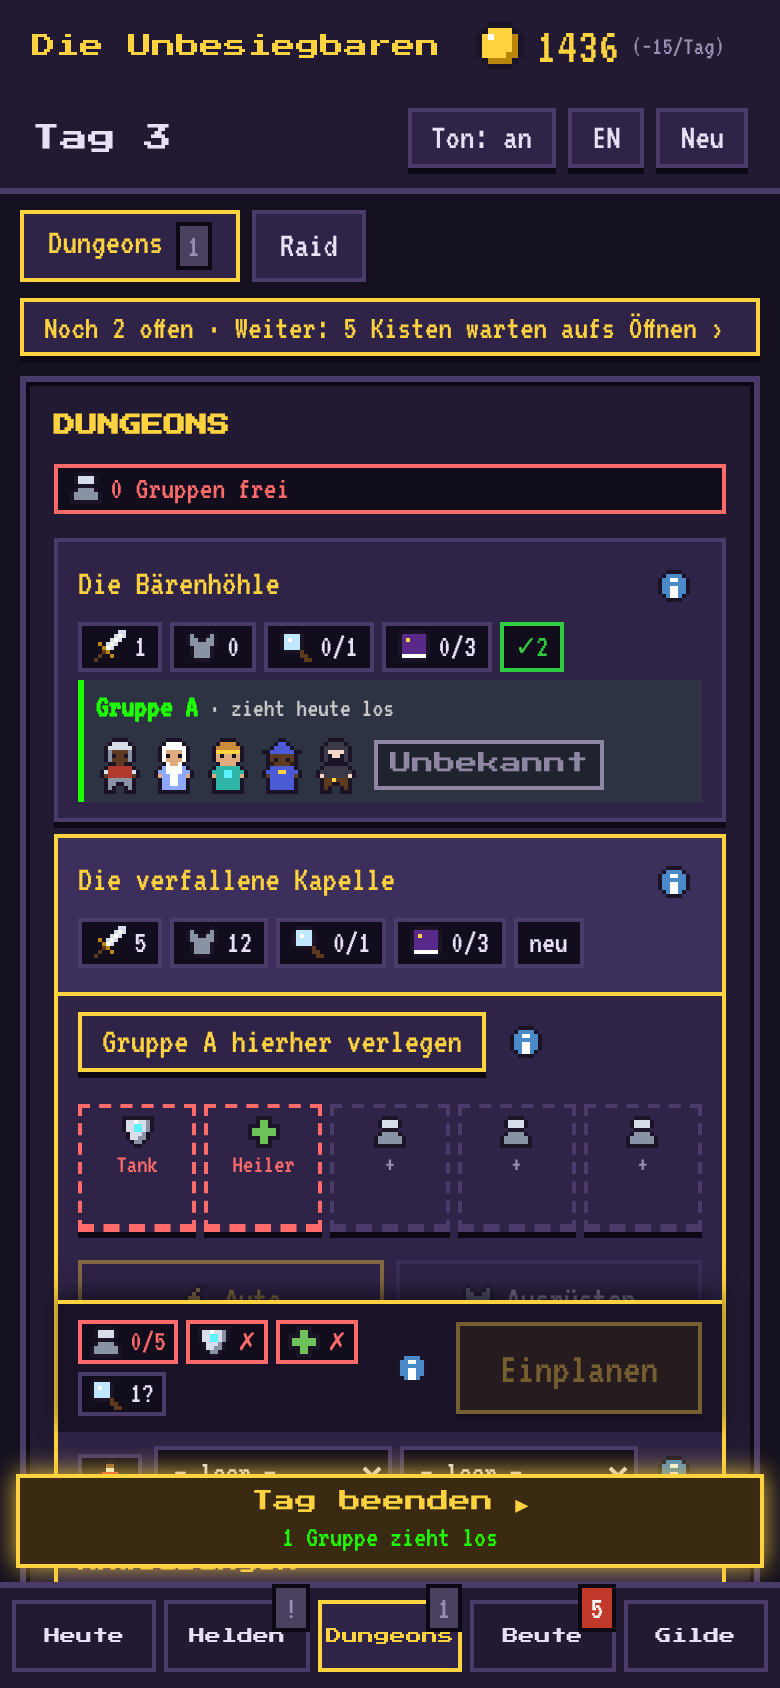
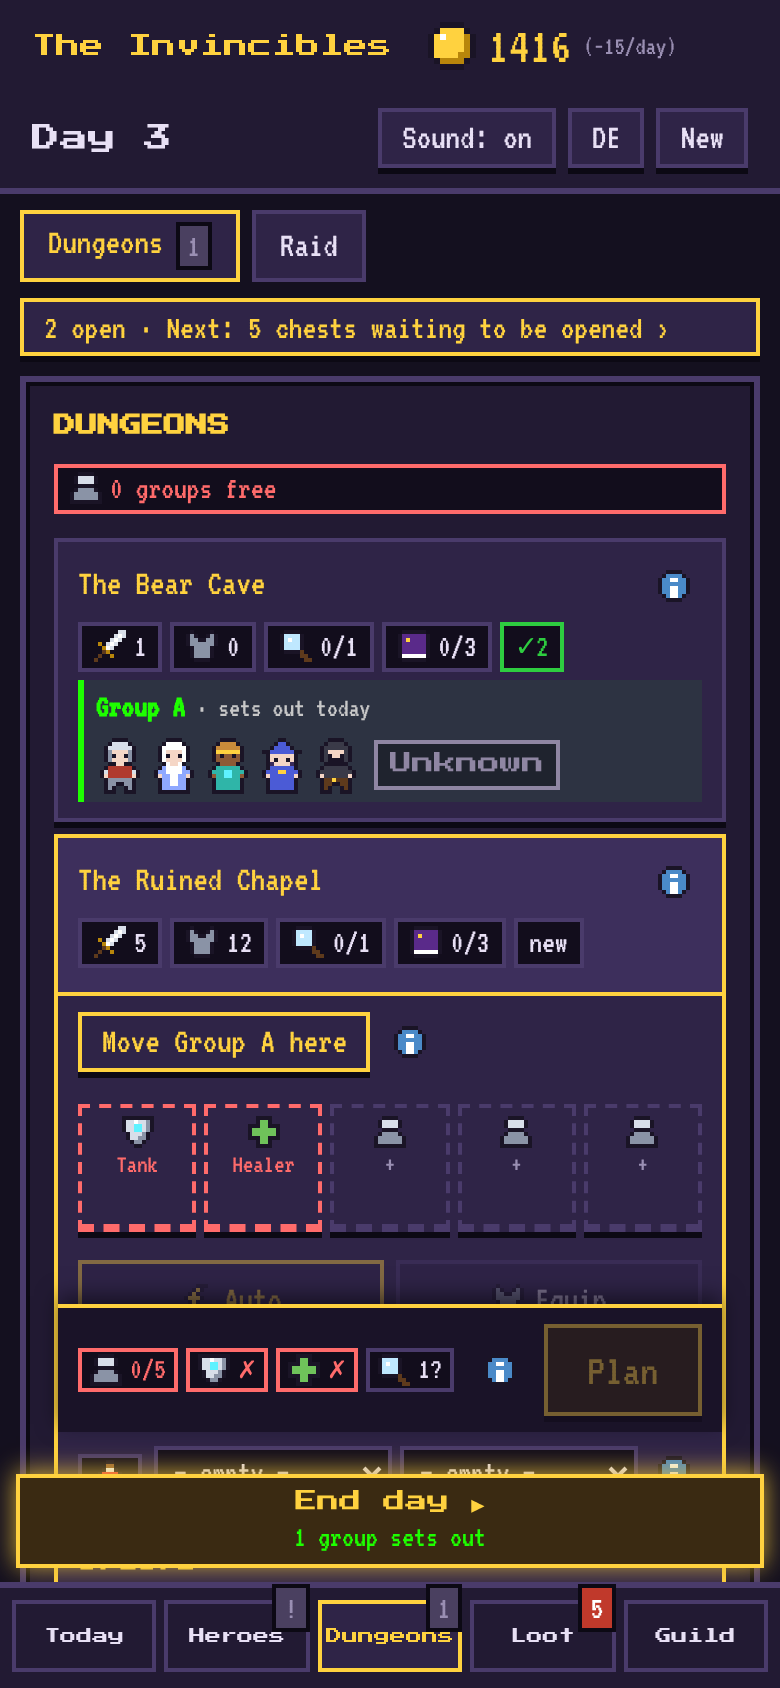
GitHub page fully in English: README, screenshots, link preview
- README rewritten in English
- screenshots retaken in English with English file names (tools/screenshots.cjs: English by default, 'de' for German)
- index.html: English description and link preview, new preview image

Claude-Session: https://claude.ai/code/session_01NVZnQ5TLVMAPfjkcucPMnS

diff --git a/index.html b/index.html
@@ -3,15 +3,15 @@
   <head>
     <meta charset="UTF-8" />
     <meta name="viewport" content="width=device-width, initial-scale=1.0" />
-    <title>Gildenmanager – Führe deine MMORPG-Gilde</title>
-    <meta name="description" content="Pixel-Art-Managementspiel: Führe eine MMORPG-Gilde, heuere Helden an, plane Gruppen und Raids und sammle legendäre Beute. Im Browser, auch auf dem Handy." />
+    <title>Guild Manager – Run your MMORPG guild</title>
+    <meta name="description" content="Pixel-art management game: run an MMORPG guild, hire heroes, plan groups and raids and collect legendary loot. In your browser, on desktop and mobile. English and German." />
     <meta name="theme-color" content="#1a1228" />
     <link rel="icon" type="image/png" href="./favicon.png" />
     <link rel="apple-touch-icon" href="./apple-touch-icon.png" />
-    <!-- Vorschau, wenn der Link geteilt wird (Messenger, soziale Netzwerke) -->
+    <!-- Vorschau, wenn der Link geteilt wird (Messenger, soziale Netzwerke); auf Englisch, weil die Seite international geteilt wird -->
     <meta property="og:type" content="website" />
-    <meta property="og:title" content="Gildenmanager" />
-    <meta property="og:description" content="Führe deine MMORPG-Gilde: Helden, Dungeons, Raids und Beute – in Pixel-Art, im Browser." />
+    <meta property="og:title" content="Guild Manager" />
+    <meta property="og:description" content="Run your MMORPG guild: heroes, dungeons, raids and loot – in pixel art, in your browser." />
     <meta property="og:url" content="https://salsaheaven.github.io/gildenmanager/" />
     <meta property="og:image" content="https://salsaheaven.github.io/gildenmanager/og-image.png" />
     <meta name="twitter:card" content="summary_large_image" />

diff --git a/README.md b/README.md
@@ -1,98 +1,78 @@
 <div align="center">
 
-<img src="public/apple-touch-icon.png" width="96" alt="Pixel-Schatzkiste" />
+<img src="public/apple-touch-icon.png" width="96" alt="Pixel treasure chest" />
 
-# Gildenmanager
+# Guild Manager
 
-**Führe deine MMORPG-Gilde – ohne selbst zu kämpfen.**<br>
-Ein Pixel-Art-Managementspiel für Browser und Handy.
+**Run your MMORPG guild – without fighting yourself.**<br>
+A pixel-art management game for browser and phone.
 
-[![Jetzt spielen](https://img.shields.io/badge/▶_Jetzt_spielen-im_Browser-ffd23f?style=for-the-badge&labelColor=1a1228)](https://salsaheaven.github.io/gildenmanager/)
+[![Play now](https://img.shields.io/badge/▶_Play_now-in_your_browser-ffd23f?style=for-the-badge&labelColor=1a1228)](https://salsaheaven.github.io/gildenmanager/)
 
-![Sprachen](https://img.shields.io/badge/Sprachen-Deutsch_·_English-a335ee?style=flat-square&labelColor=1a1228)
-![Plattform](https://img.shields.io/badge/läuft_auf-PC_·_Handy-1eff00?style=flat-square&labelColor=1a1228)
-![Status](https://img.shields.io/badge/Status-in_Entwicklung-0070dd?style=flat-square&labelColor=1a1228)
+![Languages](https://img.shields.io/badge/languages-English_·_German-a335ee?style=flat-square&labelColor=1a1228)
+![Platform](https://img.shields.io/badge/runs_on-desktop_·_mobile-1eff00?style=flat-square&labelColor=1a1228)
+![Status](https://img.shields.io/badge/status-in_development-0070dd?style=flat-square&labelColor=1a1228)
 
-[Deutsch](#worum-gehts) · [English](#english)
-
-<img src="docs/screenshots/kampf.png" width="860" alt="Kampfszene gegen Grimmzahn in der Bärenhöhle" />
+<img src="docs/screenshots/battle.png" width="860" alt="Battle scene against Grimfang in the Bear Cave" />
 
 </div>
 
-## Worum geht's?
+## What is it about?
 
-Du bist Gildenmeister. Du heuerst Helden an, stellst Gruppen aus Tank, Heiler und Schadensausteilern zusammen,
-gibst ihnen Anweisungen und schickst sie in Dungeons. Gekämpft wird automatisch: Am Ende jedes Tages siehst du zu,
-wie sich deine Gruppen schlagen – und öffnest danach die Beute.
+You are the guild master. You hire heroes, build groups of tanks, healers and damage dealers,
+give them orders and send them into dungeons. The fighting happens on its own: at the end of each day you watch
+how your groups do – and then you open the loot.
 
-Mit jeder Kiste wirst du stärker, jeder Boss hat seine Tricks, und vier andere Gilden kämpfen um dieselben Server-Firsts.
-Am Ende wartet ein 20-Mann-Raid mit dem Endboss. Gewertet wird, nach wie vielen Tagen deine Gilde die Welt gerettet hat.
+Every chest makes you stronger, every boss has its tricks, and four rival guilds race you for the server firsts.
+At the end awaits a 20-player raid against the final boss. Your score: how many days your guild needed to save the world.
 
-## So spielt es sich
+## How it plays
 
 | | | | |
 |:-:|:-:|:-:|:-:|
-| <img src="docs/screenshots/tagesplan.png" width="190" alt="Tagesplan" /> | <img src="docs/screenshots/dungeon.png" width="190" alt="Dungeon planen" /> | <img src="docs/screenshots/held.png" width="190" alt="Held mit Ausrüstung" /> | <img src="docs/screenshots/kampf-handy.png" width="190" alt="Kampf auf dem Handy" /> |
-| **Planen**<br>Was gibt es heute zu tun? | **Gruppe bilden**<br>Tank, Heiler, Konter | **Ausrüsten**<br>Items, Talente, Sets | **Zuschauen**<br>Kämpfe als Szene |
+| <img src="docs/screenshots/day-plan.png" width="190" alt="Day plan" /> | <img src="docs/screenshots/dungeon.png" width="190" alt="Planning a dungeon" /> | <img src="docs/screenshots/hero.png" width="190" alt="Hero with gear" /> | <img src="docs/screenshots/battle-mobile.png" width="190" alt="Battle on a phone" /> |
+| **Plan**<br>What needs doing today? | **Build a group**<br>Tank, healer, counters | **Gear up**<br>Items, talents, sets | **Watch**<br>Fights as a scene |
 
 <p align="center">
-  <img src="docs/screenshots/beute.png" width="420" alt="Schatzkiste öffnen" />
-  <img src="docs/screenshots/raid-kampf.png" width="420" alt="Raid mit 20 Helden" />
+  <img src="docs/screenshots/loot.png" width="420" alt="Opening a treasure chest" />
+  <img src="docs/screenshots/raid.png" width="420" alt="Raid with 20 heroes" />
 </p>
 
-1. **Morgens planen:** Wer zieht in welchen Dungeon, wer trainiert, sammelt Kräuter oder erkundet den nächsten Boss?
-2. **„Tag beenden“:** Alle Kämpfe laufen als Pixel-Szene ab – oder du überspringst sie.
-3. **Abends ernten:** Gold, Erfahrung, Level-Ups und Boss-Kisten. „Woran es lag“ erklärt jede Niederlage.
-4. **Stärker werden:** Ausrüstung anlegen und verbessern, Talente wählen, die Gildenhalle ausbauen.
-5. **Weiter nach oben:** neue Dungeons, Raid-Tage am Wochenende, das Rennen gegen die anderen Gilden.
+1. **Plan in the morning:** who goes into which dungeon, who trains, gathers herbs or scouts the next boss?
+2. **"End day":** all fights play out as a pixel scene – or you skip them.
+3. **Reap in the evening:** gold, experience, level-ups and boss chests. "What went wrong" explains every defeat.
+4. **Get stronger:** equip and upgrade gear, pick talents, expand the guild hall.
+5. **Climb higher:** new dungeons, raid days on the weekend, the race against the other guilds.
 
-## Was drin ist
+## What's inside
 
-- 🛡 **15 Klassen** mit eigenen Skills, Talenten und Kampf-Anweisungen – jede Wahl hat Vor- und Nachteile
-- 🗺 **10 Dungeons** mit Trash-Gruppen und Bossen, deren Mechaniken man kontern muss (unterbrechen, Flüche lösen, abfangen, Panzer brechen, Wutanfall dämpfen)
-- 🐉 **2 Raids mit 20 Helden** in vier Gruppen: Phasen, Tankwechsel, Gruppenschläge – und Vaelor, der Weltenverschlinger
-- 🎁 **Lootboxen** mit Seltenheiten von <img src="https://img.shields.io/badge/-Grau-9d9d9d?style=flat-square" /> <img src="https://img.shields.io/badge/-Weiß-ffffff?style=flat-square" /> <img src="https://img.shields.io/badge/-Grün-1eff00?style=flat-square" /> <img src="https://img.shields.io/badge/-Blau-0070dd?style=flat-square" /> <img src="https://img.shields.io/badge/-Lila-a335ee?style=flat-square" /> bis <img src="https://img.shields.io/badge/-Orange-ff8000?style=flat-square" />, mit Pity-System
-- 📖 **Sammelbuch und 15 Klassen-Sets** zum Vervollständigen, Titel für volle Seiten
-- 🏰 **Gildenhalle** mit 6 Gebäuden, Schmieden, Umschmieden, Brauen und Verbessern bis +10
-- ⚔ **Rivalisierende KI-Gilden** mit Neuigkeiten-Ticker, Server-Firsts und Rangliste
-- 🏆 **Endauswertung** mit Rang von S bis D und einer Bestenliste
-- 📱 Läuft im Browser auf **PC und Handy**, speichert automatisch, **Deutsch und Englisch**
+- 🛡 **15 classes** with their own skills, talents and combat orders – every choice has pros and cons
+- 🗺 **10 dungeons** with trash groups and bosses whose mechanics you need to counter (interrupt, cleanse curses, intercept, break shells, calm frenzies)
+- 🐉 **2 raids with 20 heroes** in four groups: phases, tank swaps, group strikes – and Vaelor, the World Devourer
+- 🎁 **Loot boxes** with rarities from <img src="https://img.shields.io/badge/-grey-9d9d9d?style=flat-square" /> <img src="https://img.shields.io/badge/-white-ffffff?style=flat-square" /> <img src="https://img.shields.io/badge/-green-1eff00?style=flat-square" /> <img src="https://img.shields.io/badge/-blue-0070dd?style=flat-square" /> <img src="https://img.shields.io/badge/-purple-a335ee?style=flat-square" /> to <img src="https://img.shields.io/badge/-orange-ff8000?style=flat-square" />, with a pity system
+- 📖 **Collection book and 15 class sets** to complete, titles for full pages
+- 🏰 **Guild hall** with 6 buildings, forging, reforging, brewing and upgrades up to +10
+- ⚔ **Rival AI guilds** with a news ticker, server firsts and a leaderboard
+- 🏆 **Final evaluation** with a rank from S to D and a high-score list
+- 📱 Runs in the browser on **desktop and mobile**, saves automatically, **English and German** (switch with the DE/EN button)
 
-## Mitentwickeln
+## Contributing
 
 ```bash
 npm install
-npm run dev     # Spiel unter http://localhost:5173
-npm test        # alle Tests
-npm run build   # fertige Version in dist/
+npm run dev     # game at http://localhost:5173
+npm test        # all tests
+npm run build   # production build in dist/
 ```
 
-Im Spiel öffnet **F2** ein Test-Menü (alles freischalten, Gold, Kisten, Raid-Test …).
-Jeder Push auf `main` wird getestet und automatisch auf GitHub Pages veröffentlicht.
+In the game, **F2** opens a test menu (unlock everything, gold, chests, raid test …).
+Every push to `main` is tested and published to GitHub Pages automatically.
 
-- [KONZEPT.md](KONZEPT.md) – Spielidee und alle Design-Entscheidungen
-- [PLAN.md](PLAN.md) – Technik, Meilensteine und was als Nächstes kommt
-- [CLAUDE.md](CLAUDE.md) – Aufbau des Codes und Regeln fürs Weiterbauen
+Vanilla JavaScript, Vite and Vitest, no framework. The pixel art is stored as text in `src/data/sprites.js`.
+English texts live in `src/data/texts/en.js` (interface) and `src/data/en/` (game content).
+Screenshots can be retaken with `node tools/screenshots.cjs` while `npm run dev` is running.
 
-Vanilla JavaScript, Vite und Vitest, ohne Framework. Die Pixel-Art steht als Text in `src/data/sprites.js`.
-Ein Lern- und Vibecoding-Projekt, entwickelt zusammen mit [Claude Code](https://claude.ai/code).
+The design documents and code comments are written in German:
+[KONZEPT.md](KONZEPT.md) (game design and decisions), [PLAN.md](PLAN.md) (milestones), [CLAUDE.md](CLAUDE.md) (code structure and rules).
 
----
-
-## English
-
-**Run an MMORPG guild – without fighting yourself.** A pixel-art management game for browser and phone.
-
-You are the guild master: hire heroes, build groups of tank, healer and damage dealers, give them orders and send them
-into dungeons. Fights play out automatically at the end of each day – then you open the loot.
-Every chest makes you stronger, every boss has its tricks, and four rival guilds race you for server firsts.
-At the end awaits a 20-player raid against the final boss. Your score: how many days your guild needed to save the world.
-
-- 15 classes with skills, talents and combat orders
-- 10 dungeons and 2 raids (20 heroes in four groups, phases, tank swaps)
-- Loot boxes from grey to orange, pity system, collection book and 15 class sets
-- Guild hall with 6 buildings, forging, brewing and upgrades up to +10
-- Rival AI guilds, news ticker, leaderboard and a final ranking from S to D
-- Runs in the browser on desktop and mobile, autosaves, **English and German** (switch with the DE/EN button)
-
-**[▶ Play now](https://salsaheaven.github.io/gildenmanager/)**
+A learning and vibe-coding project, built together with [Claude Code](https://claude.ai/code).

diff --git a/PLAN.md b/PLAN.md
@@ -186,7 +186,7 @@ Plan vom 2026-11-01 (Entscheidungen in `KONZEPT.md` unter „Raids“, „Klasse
 **M5 – Feinschliff:** Balancing, Sounds, Grafik. Optional: Diplomatie.
 Notiert (2026-11-09):
 - ✅ **Deutsch und Englisch mit Sprachauswahl** (2026-11-09): `core/Language.js` + `data/texts/` (Oberfläche, Logik-Meldungen, Kampfprotokoll), `core/DataLanguage.js` + `data/en/` (Inhalte), Umschalter DE/EN oben und beim Gründen, erste Sprache = Browser-Sprache, Item- und Gruppennamen werden beim Laden in der aktuellen Sprache neu gebaut (Spielstand-Version 29). Test-Menü und Kampf-Labor bleiben deutsch.
-- ✅ **GitHub-Seite aufgehübscht** (2026-11-09): neue README mit Titelbild, „Jetzt spielen“, Bildergalerie (`docs/screenshots/`, neu aufnehmen mit `tools/screenshots.cjs`), Funktionsliste und englischem Teil; veröffentlichte Seite mit Pixel-Favicon, Beschreibung und Vorschaubild für geteilte Links (`public/`), Tab-Titel in beiden Sprachen.
+- ✅ **GitHub-Seite aufgehübscht** (2026-11-09): README komplett auf Englisch mit Titelbild, „Play now“, Bildergalerie (`docs/screenshots/`, englische Bilder, neu aufnehmen mit `tools/screenshots.cjs`) und Funktionsliste; veröffentlichte Seite mit Pixel-Favicon, englischer Beschreibung und Vorschaubild für geteilte Links (`public/`), Tab-Titel in beiden Sprachen. Konzept-Dokumente und Code-Kommentare bleiben deutsch.
 
 **Nach dem ersten Release (erste Erweiterung):** Heroisch mit Permadeath und Ehrenhalle, New Game+ / Incremental-Teil (entschieden 2026-10-30).
 

diff --git a/tools/README.md b/tools/README.md
@@ -24,4 +24,4 @@ Bei Balancing-Änderungen: vorher und nachher messen und beide Zahlen vergleiche
 
 | Werkzeug | Wozu | Aufruf |
 |---|---|---|
-| `screenshots.cjs` | Nimmt die Bilder für die README neu auf (`docs/screenshots/`, Handy und PC, Deutsch) | erst `npm run dev`, dann `node tools/screenshots.cjs` |
+| `screenshots.cjs` | Nimmt die Bilder für die README neu auf (`docs/screenshots/`, Handy und PC, Englisch; mit `de` als Zusatz auf Deutsch) | erst `npm run dev`, dann `node tools/screenshots.cjs` |
